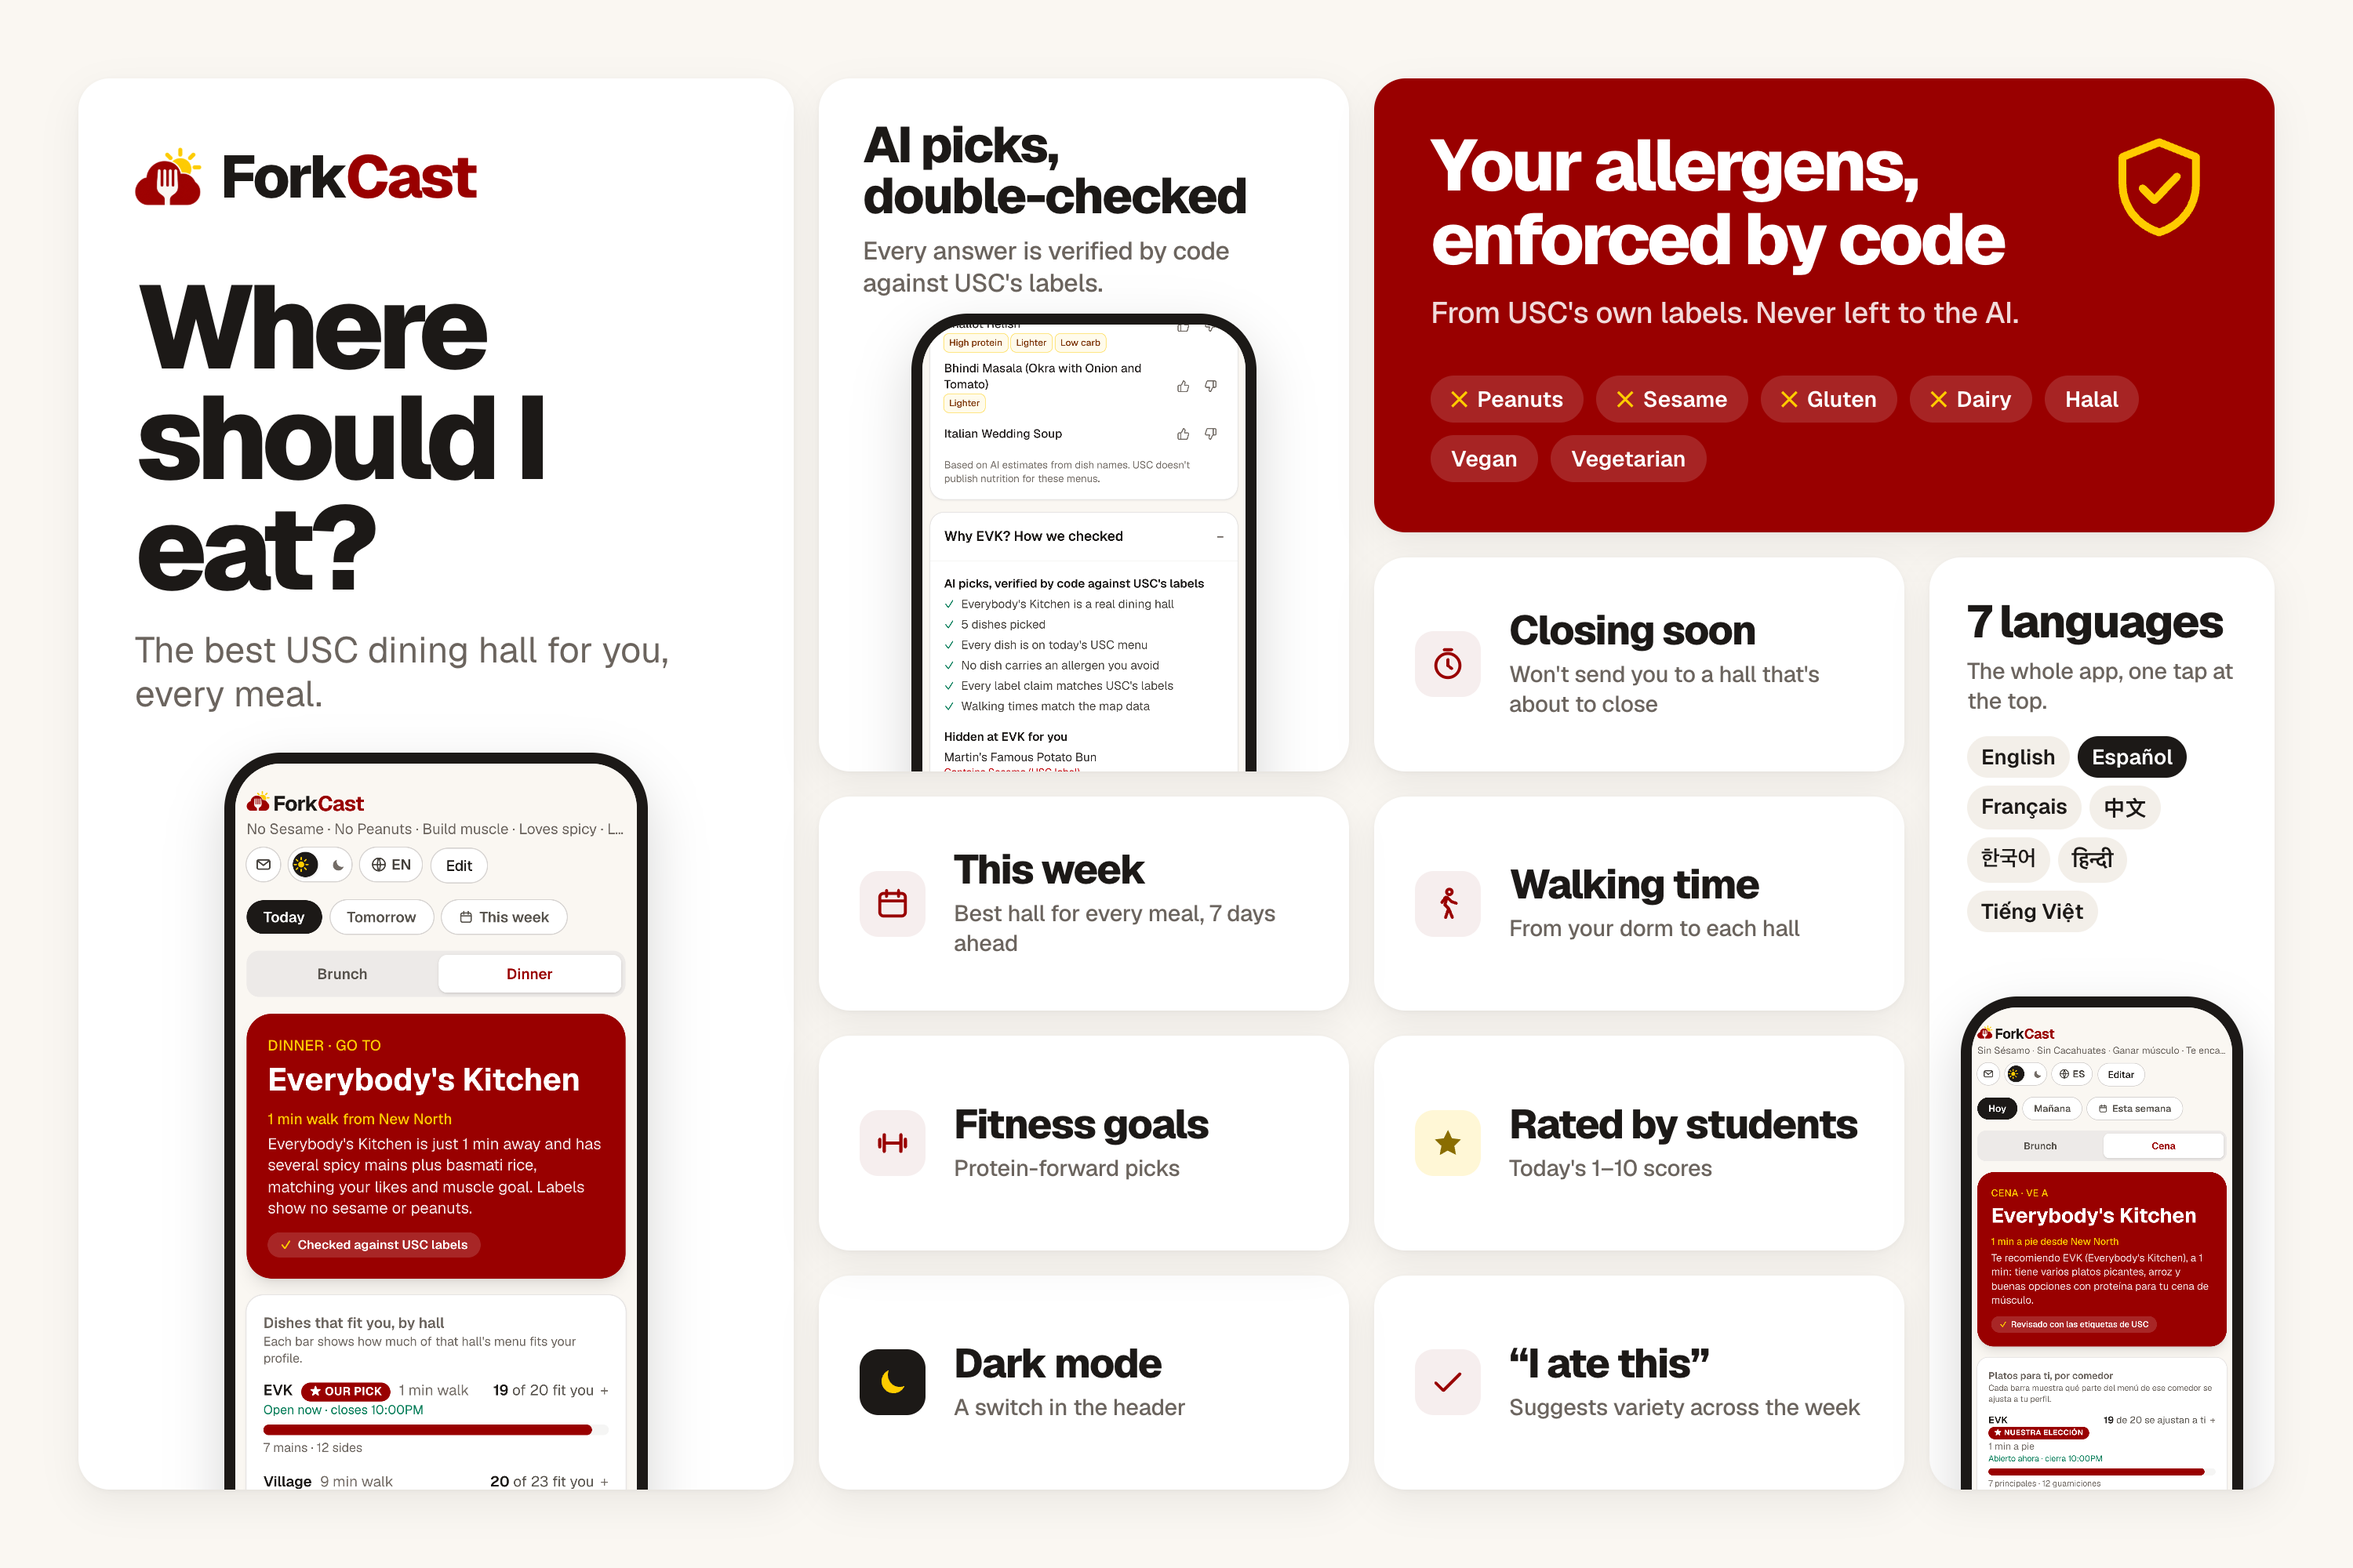
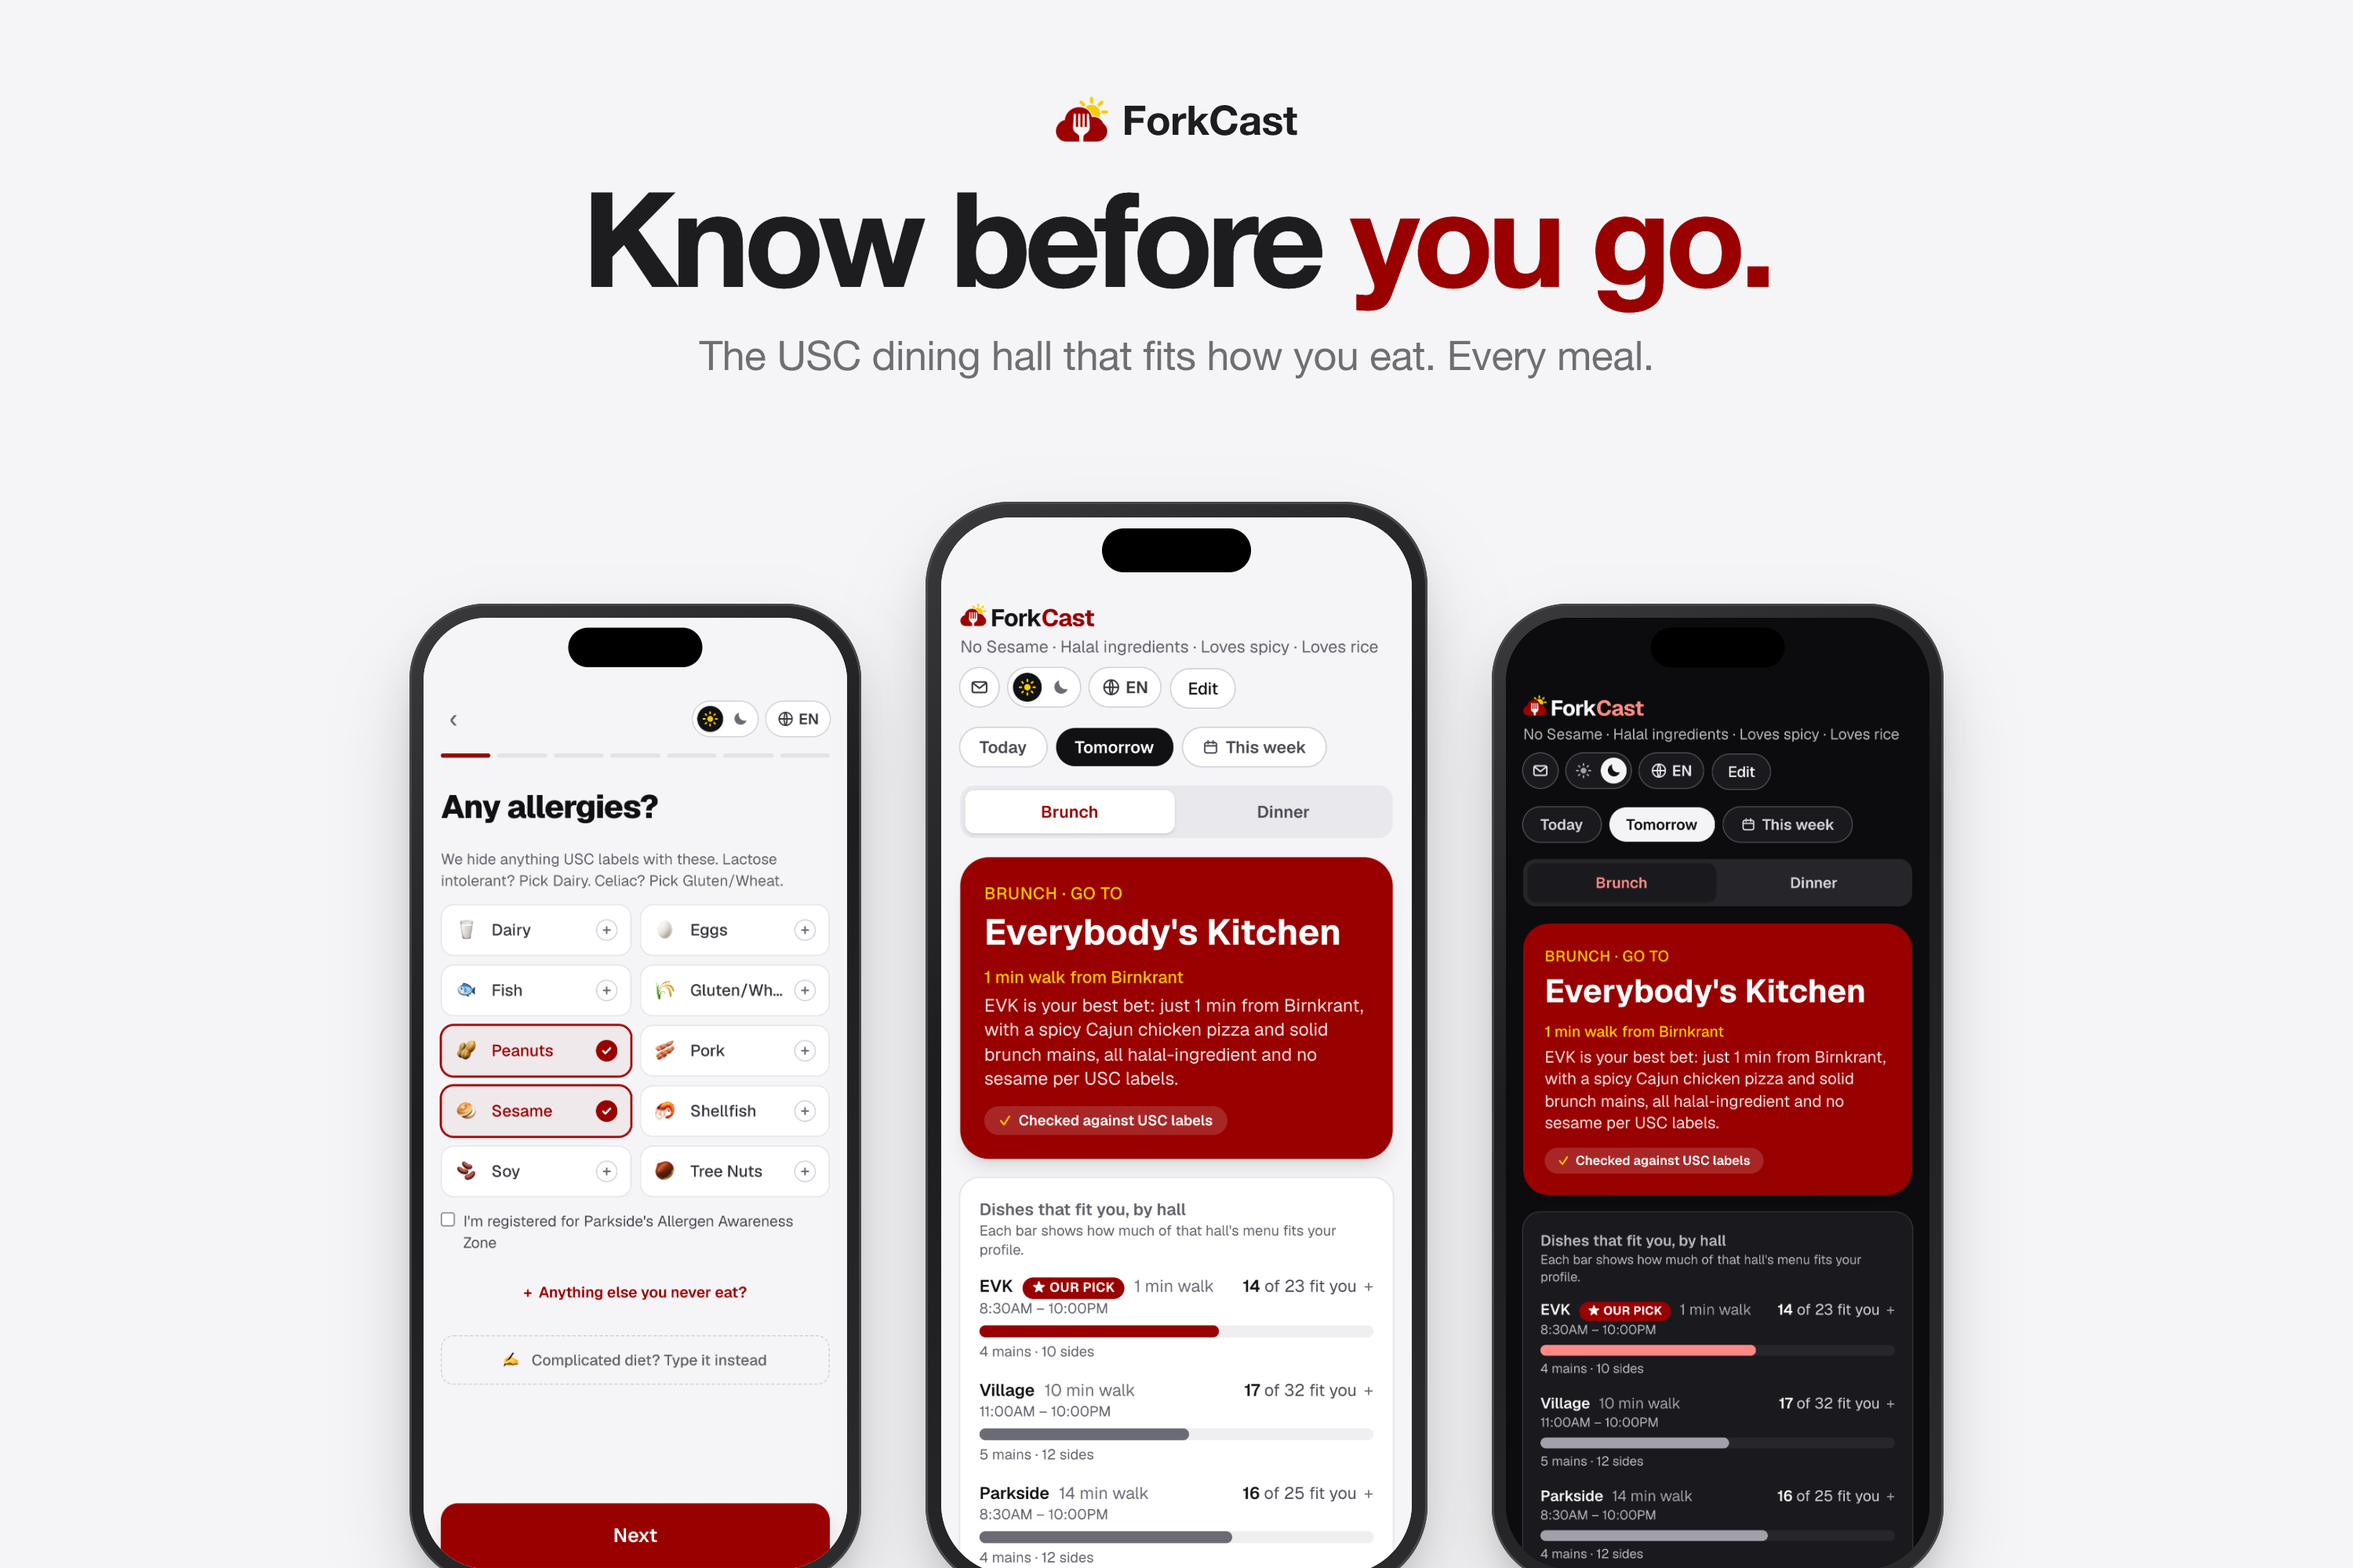
Cover: Apple-style redesign
One headline, three real phone screens of the current app, generous whitespace. Replaces the feature-card grid.

diff --git a/docs/cover/cover.html b/docs/cover/cover.html
@@ -1,134 +1,59 @@
 <!doctype html>
-<html lang="en">
+<html>
 <head>
-<meta charset="utf-8">
+<meta charset="utf-8" />
 <title>ForkCast cover</title>
-<!-- Devpost cover graphic, 3000x2000. Export: open in Chrome, Inspect, Cmd+Shift+P, "Capture full size screenshot".
-     Or: node docs/cover/export.mjs (writes cover.png). Screenshots are real captures of forkcast-usc.vercel.app. -->
-<link rel="preconnect" href="https://fonts.googleapis.com">
-<link href="https://fonts.googleapis.com/css2?family=Geist:wght@400;500;600;700;800&display=swap" rel="stylesheet">
 <style>
-  :root { --bg:#faf7f2; --tile:#ffffff; --ink:#1c1917; --muted:#6b645e; --red:#990000; --gold:#ffcc00; --gap:32px; }
-  * { box-sizing:border-box; margin:0; padding:0; }
-  html, body { width:3000px; height:2000px; overflow:hidden; background:var(--bg); }
-  body { font-family:"Geist", system-ui, sans-serif; color:var(--ink); -webkit-font-smoothing:antialiased; padding:100px; }
-  .grid { width:2800px; height:1800px; display:grid; gap:var(--gap); grid-template-columns:repeat(12, 1fr); grid-template-rows:repeat(6, 1fr); }
-  .tile { background:var(--tile); border-radius:40px; box-shadow:0 2px 6px rgba(28,25,23,.04), 0 18px 48px rgba(28,25,23,.07); position:relative; overflow:hidden; padding:52px 56px; display:flex; flex-direction:column; }
-  h2 { font-size:64px; line-height:1.02; font-weight:750; letter-spacing:-0.035em; }
-  p { font-size:32px; line-height:1.3; color:var(--muted); margin-top:16px; font-weight:450; letter-spacing:-0.01em; }
-  .icon { width:84px; height:84px; border-radius:24px; display:flex; align-items:center; justify-content:center; background:#f6eeee; color:var(--red); flex-shrink:0; }
-  .icon svg { width:46px; height:46px; }
-  .small { flex-direction:row; align-items:center; gap:36px; padding:44px 52px; }
-  .small h2 { font-size:52px; }
-  .small p { font-size:29px; margin-top:12px; }
+  * { box-sizing: border-box; margin: 0; padding: 0; }
+  html, body { width: 3000px; height: 2000px; overflow: hidden; }
+  body {
+    background: #f5f5f7;
+    font-family: -apple-system, "SF Pro Display", "Helvetica Neue", Helvetica, Arial, sans-serif;
+    color: #1d1d1f;
+    -webkit-font-smoothing: antialiased;
+    position: relative;
+  }
+  .top { position: absolute; top: 120px; left: 0; right: 0; text-align: center; }
+  .brand { display: inline-flex; align-items: center; gap: 18px; font-size: 52px; font-weight: 600; letter-spacing: -0.01em; }
+  .brand img { height: 58px; }
+  h1 { margin-top: 34px; font-size: 168px; font-weight: 700; letter-spacing: -0.045em; line-height: 1; }
+  h1 span { color: #990000; }
+  .sub { margin-top: 36px; font-size: 52px; font-weight: 400; color: #6e6e73; letter-spacing: -0.01em; }
 
-  /* phone frames */
-  .phone { border:14px solid var(--ink); border-radius:72px; overflow:hidden; background:var(--bg); box-shadow:0 30px 70px rgba(28,25,23,.18); position:absolute; left:50%; transform:translateX(-50%); }
-  .phone img { display:block; width:100%; height:100%; object-fit:cover; object-position:top; }
+  .phones { position: absolute; left: 0; right: 0; top: 640px; height: 1500px; }
+  .phone {
+    position: absolute; width: 640px; height: 1388px; border-radius: 108px; padding: 20px;
+    background: linear-gradient(145deg, #3a3a3c, #1d1d1f 40%, #2c2c2e);
+    box-shadow: 0 0 0 3px #48484a inset, 0 60px 120px -30px rgba(0,0,0,.28), 0 30px 60px -30px rgba(0,0,0,.25);
+  }
+  .phone .screen { width: 100%; height: 100%; border-radius: 90px; overflow: hidden; background: #fff; position: relative; }
+  .phone .screen img { width: 100%; display: block; }
+  .phone .island { position: absolute; top: 34px; left: 50%; transform: translateX(-50%); width: 190px; height: 56px; border-radius: 30px; background: #000; z-index: 2; }
+  .phone .screen::before { content: ""; display: block; height: 0; }
+  .center { left: 50%; margin-left: -320px; top: 0; z-index: 3; }
+  .left { left: 50%; margin-left: -1010px; top: 130px; z-index: 2; transform: scale(.9); transform-origin: top center; }
+  .right { left: 50%; margin-left: 370px; top: 130px; z-index: 2; transform: scale(.9); transform-origin: top center; }
+  /* The screenshots start below the status bar, so leave room for the island. */
+  .pad { height: 70px; background: var(--bar, #f5f5f7); }
+  .right .pad { --bar: #0c0c0e; }
+  .right .screen { background: #0c0c0e; }
 
-  /* hero */
-  .hero { grid-column:1 / 5; grid-row:1 / 7; padding:76px 72px; }
-  .brand { display:flex; align-items:center; gap:24px; font-size:76px; font-weight:800; letter-spacing:-0.045em; }
-  .brand img { height:74px; width:auto; }
-  .brand span { color:var(--red); }
-  .hero h1 { font-size:150px; line-height:.94; font-weight:800; letter-spacing:-0.055em; margin-top:72px; }
-  .hero .sub { font-size:46px; line-height:1.22; color:var(--muted); margin-top:32px; max-width:760px; }
-  .hero .phone { width:540px; height:1170px; top:860px; }
-
-  .verify { grid-column:5 / 8; grid-row:1 / 4; }
-  .verify .phone { width:440px; height:953px; top:300px; }
-
-  .red { grid-column:8 / 13; grid-row:1 / 3; background:var(--red); color:#fff; padding:64px 72px; justify-content:space-between; }
-  .red h2 { font-size:92px; max-width:1050px; letter-spacing:-0.045em; }
-  .red p { color:rgba(255,255,255,.86); font-size:38px; margin-top:22px; }
-  .red .shield { position:absolute; right:72px; top:64px; width:150px; height:150px; color:var(--gold); }
-  .chips { display:flex; gap:16px; flex-wrap:wrap; }
-  .chip { font-size:28px; font-weight:600; padding:12px 26px; border-radius:999px; background:rgba(255,255,255,.14); color:#fff; display:flex; align-items:center; gap:12px; }
-  .chip i { font-style:normal; color:var(--gold); }
-
-  .c1 { grid-column:8 / 11; grid-row:3; }
-  .c2 { grid-column:8 / 11; grid-row:4; }
-  .c3 { grid-column:8 / 11; grid-row:5; }
-  .c4 { grid-column:8 / 11; grid-row:6; }
-  .week { grid-column:5 / 8; grid-row:4; }
-  .fit { grid-column:5 / 8; grid-row:5; }
-  .dark { grid-column:5 / 8; grid-row:6; }
-
-  .langs { grid-column:11 / 13; grid-row:3 / 7; padding:52px 48px; }
-  .langs h2 { font-size:58px; }
-  .langs p { font-size:29px; }
-  .langlist { display:flex; flex-wrap:wrap; gap:10px; margin-top:26px; }
-  .langlist span { font-size:27px; font-weight:550; padding:9px 18px; border-radius:999px; background:#f3efe9; color:var(--ink); }
-  .langlist span.on { background:var(--ink); color:#fff; }
-  .langs .phone { width:360px; height:780px; top:560px; }
-
+  .foot { position: absolute; bottom: 0; left: 0; right: 0; height: 260px; background: linear-gradient(to top, #f5f5f7 30%, rgba(245,245,247,0)); z-index: 5; }
+  .url { position: absolute; bottom: 70px; left: 0; right: 0; text-align: center; z-index: 6; font-size: 34px; color: #86868b; letter-spacing: 0.01em; }
 </style>
 </head>
 <body>
-<div class="grid">
+  <div class="top">
+    <div class="brand"><img src="logo-mark.png" alt="" />ForkCast</div>
+    <h1>Know before <span>you go.</span></h1>
+    <p class="sub">The USC dining hall that fits how you eat. Every meal.</p>
+  </div>
 
-  <section class="tile hero">
-    <div class="brand"><img src="logo-mark.png" alt=""><div>Fork<span>Cast</span></div></div>
-    <h1>Where should I eat?</h1>
-    <div class="sub">The best USC dining hall for you, every meal.</div>
-    <div class="phone"><img src="screenshot-1.png" alt="ForkCast main screen: Everybody's Kitchen picked for dinner"></div>
-  </section>
+  <div class="phones">
+    <div class="phone left"><div class="island"></div><div class="screen"><div class="pad"></div><img src="screen-setup.png" alt="" /></div></div>
+    <div class="phone right"><div class="island"></div><div class="screen"><div class="pad"></div><img src="screen-pick-dark.png" alt="" /></div></div>
+    <div class="phone center"><div class="island"></div><div class="screen"><div class="pad"></div><img src="screen-pick.png" alt="" /></div></div>
+  </div>
 
-  <section class="tile verify">
-    <h2>AI picks,<br><span style="white-space:nowrap">double-checked</span></h2>
-    <p>Every answer is verified by code against USC's labels.</p>
-    <div class="phone"><img src="screenshot-2.png" alt="The How we checked panel"></div>
-  </section>
-
-  <section class="tile red">
-    <svg class="shield" viewBox="0 0 24 24" fill="none" stroke="currentColor" stroke-width="1.6" stroke-linejoin="round" stroke-linecap="round"><path d="M12 2.8l7.5 3v5.6c0 4.6-3.1 8.4-7.5 9.8-4.4-1.4-7.5-5.2-7.5-9.8V5.8z"/><path d="M8.6 12.2l2.4 2.4 4.6-4.8"/></svg>
-    <div>
-      <h2>Your allergens, enforced by code</h2>
-      <p>From USC's own labels. Never left to the AI.</p>
-    </div>
-    <div class="chips">
-      <span class="chip"><i>✕</i> Peanuts</span><span class="chip"><i>✕</i> Sesame</span><span class="chip"><i>✕</i> Gluten</span><span class="chip"><i>✕</i> Dairy</span><span class="chip">Halal</span><span class="chip">Vegan</span><span class="chip">Vegetarian</span>
-    </div>
-  </section>
-
-  <section class="tile small c1">
-    <div class="icon"><svg viewBox="0 0 24 24" fill="none" stroke="currentColor" stroke-width="2" stroke-linecap="round"><circle cx="12" cy="13" r="8"/><path d="M12 9v4l2.5 2M9.5 2.5h5"/></svg></div>
-    <div><h2>Closing soon</h2><p>Won't send you to a hall that's about to close</p></div>
-  </section>
-  <section class="tile small c2">
-    <div class="icon"><svg viewBox="0 0 24 24" fill="none" stroke="currentColor" stroke-width="2" stroke-linecap="round" stroke-linejoin="round"><circle cx="13" cy="4" r="1.8"/><path d="M10.5 21l2-6-2.5-2.5 1.5-5 3 3 3 1M8 11l2.5-3.5M12.5 15l2.5 6"/></svg></div>
-    <div><h2>Walking time</h2><p>From your dorm to each hall</p></div>
-  </section>
-  <section class="tile small c3">
-    <div class="icon" style="background:#fff7d6;color:#8a6d00"><svg viewBox="0 0 24 24" fill="currentColor"><path d="M12 3.2l2.7 5.6 6.1.8-4.5 4.2 1.1 6.1L12 17l-5.4 2.9 1.1-6.1-4.5-4.2 6.1-.8z"/></svg></div>
-    <div><h2>Rated by students</h2><p>Today's 1–10 scores</p></div>
-  </section>
-  <section class="tile small c4">
-    <div class="icon"><svg viewBox="0 0 24 24" fill="none" stroke="currentColor" stroke-width="2" stroke-linecap="round" stroke-linejoin="round"><path d="M4 12.5l5 5L20 6.5"/></svg></div>
-    <div><h2>“I ate this”</h2><p>Suggests variety across the week</p></div>
-  </section>
-
-  <section class="tile langs">
-    <h2>7 languages</h2>
-    <p>The whole app, one tap at the top.</p>
-    <div class="langlist"><span>English</span><span class="on">Español</span><span>Français</span><span>中文</span><span>한국어</span><span>हिन्दी</span><span>Tiếng Việt</span></div>
-    <div class="phone"><img src="screenshot-3.png" alt="ForkCast in Spanish"></div>
-  </section>
-
-  <section class="tile small week">
-    <div class="icon"><svg viewBox="0 0 24 24" fill="none" stroke="currentColor" stroke-width="2" stroke-linecap="round"><rect x="3.5" y="5" width="17" height="15" rx="2.5"/><path d="M3.5 10h17M8 3v4M16 3v4"/></svg></div>
-    <div><h2>This week</h2><p>Best hall for every meal, 7 days ahead</p></div>
-  </section>
-
-  <section class="tile small dark">
-      <div class="icon" style="background:var(--ink);color:var(--gold)"><svg viewBox="0 0 24 24" fill="currentColor"><path d="M20 14.5A8 8 0 019.5 4a8 8 0 1010.5 10.5z"/></svg></div>
-      <div><h2>Dark mode</h2><p>A switch in the header</p></div>
-  </section>
-  <section class="tile small fit">
-      <div class="icon"><svg viewBox="0 0 24 24" fill="none" stroke="currentColor" stroke-width="2.2" stroke-linecap="round"><path d="M6.5 6.5v11M17.5 6.5v11M3.5 9.5v5M20.5 9.5v5M6.5 12h11"/></svg></div>
-      <div><h2>Fitness goals</h2><p>Protein-forward picks</p></div>
-  </section>
-
-</div>
 </body>
 </html>
